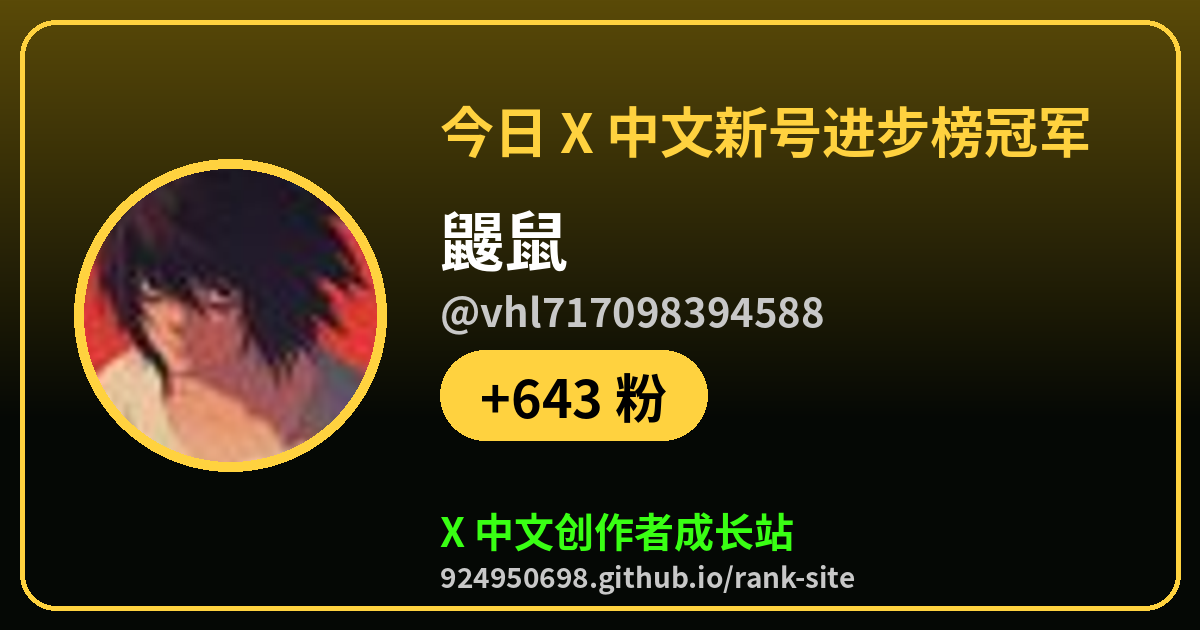
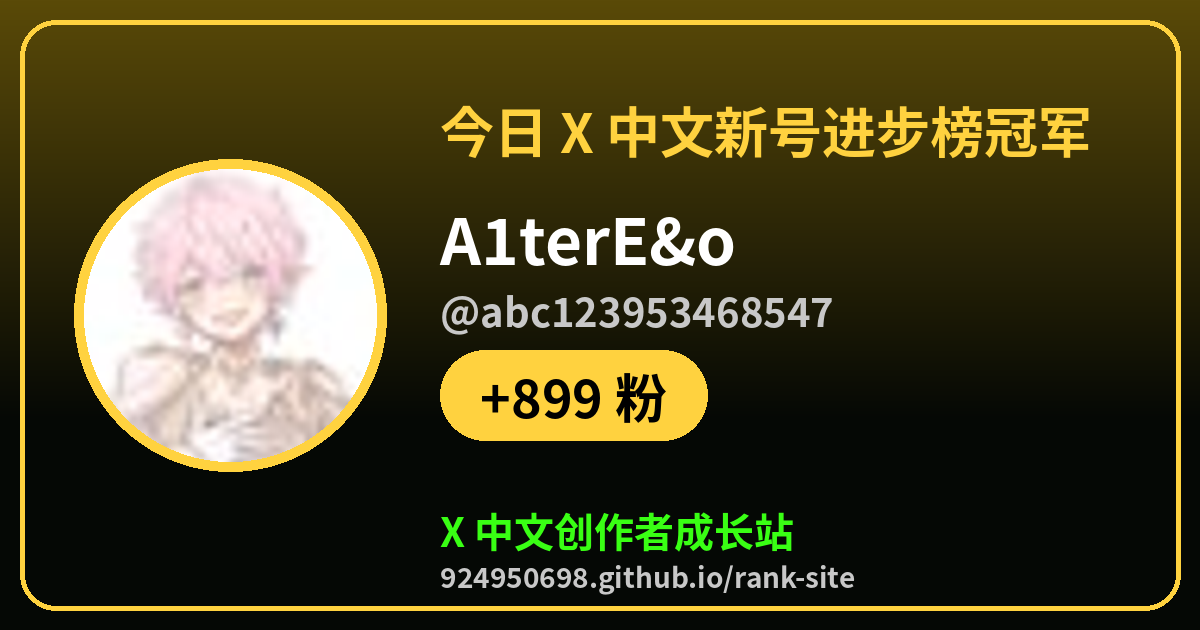
champ: 2026-10-17 16:27 CST

Changed region(s): [[0.0617, 0.2714, 0.3392, 0.754], [0.37, 0.3317, 0.7092, 0.5429], [0.4317, 0.6032, 0.4933, 0.6635]]

diff --git a/champ/rising.html b/champ/rising.html
@@ -1,7 +1,7 @@
 <!doctype html><html lang="zh-CN"><head><meta charset="utf-8"><meta name="viewport" content="width=device-width,initial-scale=1">
-<title>今日 X 中文新号进步榜冠军：鼹鼠（@vhl717098394588）</title><meta name="description" content="+643 粉，来看看今天谁在爆，你排第几">
-<meta property="og:type" content="website"><meta property="og:url" content="https://924950698.github.io/rank-site/champ/rising.html"><meta property="og:title" content="今日 X 中文新号进步榜冠军：鼹鼠（@vhl717098394588）"><meta property="og:description" content="+643 粉，来看看今天谁在爆，你排第几">
-<meta property="og:image" content="https://924950698.github.io/rank-site/champ/rising.png?v=20261017T0706"><meta name="twitter:card" content="summary_large_image"><meta name="twitter:site" content="@tigerr3aue">
-<meta name="twitter:title" content="今日 X 中文新号进步榜冠军：鼹鼠（@vhl717098394588）"><meta name="twitter:description" content="+643 粉，来看看今天谁在爆，你排第几"><meta name="twitter:image" content="https://924950698.github.io/rank-site/champ/rising.png?v=20261017T0706">
-<meta http-equiv="refresh" content="0;url=https://924950698.github.io/rank-site/?champ=vhl717098394588&amp;board=rising#rank"><script>location.replace("https://924950698.github.io/rank-site/?champ=vhl717098394588&board=rising#rank")</script></head>
-<body style="background:#000;color:#fff;font-family:sans-serif;text-align:center;padding:40px"><a href="https://924950698.github.io/rank-site/?champ=vhl717098394588&amp;board=rising#rank" style="color:#39ff14">去 X 中文创作者成长站看冠军卡片</a></body></html>
+<title>今日 X 中文新号进步榜冠军：A1terE&amp;o（@abc123953468547）</title><meta name="description" content="+899 粉，来看看今天谁在爆，你排第几">
+<meta property="og:type" content="website"><meta property="og:url" content="https://924950698.github.io/rank-site/champ/rising.html"><meta property="og:title" content="今日 X 中文新号进步榜冠军：A1terE&amp;o（@abc123953468547）"><meta property="og:description" content="+899 粉，来看看今天谁在爆，你排第几">
+<meta property="og:image" content="https://924950698.github.io/rank-site/champ/rising.png?v=20261017T0803"><meta name="twitter:card" content="summary_large_image"><meta name="twitter:site" content="@tigerr3aue">
+<meta name="twitter:title" content="今日 X 中文新号进步榜冠军：A1terE&amp;o（@abc123953468547）"><meta name="twitter:description" content="+899 粉，来看看今天谁在爆，你排第几"><meta name="twitter:image" content="https://924950698.github.io/rank-site/champ/rising.png?v=20261017T0803">
+<meta http-equiv="refresh" content="0;url=https://924950698.github.io/rank-site/?champ=abc123953468547&amp;board=rising#rank"><script>location.replace("https://924950698.github.io/rank-site/?champ=abc123953468547&board=rising#rank")</script></head>
+<body style="background:#000;color:#fff;font-family:sans-serif;text-align:center;padding:40px"><a href="https://924950698.github.io/rank-site/?champ=abc123953468547&amp;board=rising#rank" style="color:#39ff14">去 X 中文创作者成长站看冠军卡片</a></body></html>

diff --git a/champ/growth.html b/champ/growth.html
@@ -1,7 +1,7 @@
 <!doctype html><html lang="zh-CN"><head><meta charset="utf-8"><meta name="viewport" content="width=device-width,initial-scale=1">
-<title>今日 X 中文涨粉榜冠军：鼹鼠（@vhl717098394588）</title><meta name="description" content="+643 粉，来看看今天谁在爆，你排第几">
-<meta property="og:type" content="website"><meta property="og:url" content="https://924950698.github.io/rank-site/champ/growth.html"><meta property="og:title" content="今日 X 中文涨粉榜冠军：鼹鼠（@vhl717098394588）"><meta property="og:description" content="+643 粉，来看看今天谁在爆，你排第几">
-<meta property="og:image" content="https://924950698.github.io/rank-site/champ/growth.png?v=20261017T0706"><meta name="twitter:card" content="summary_large_image"><meta name="twitter:site" content="@tigerr3aue">
-<meta name="twitter:title" content="今日 X 中文涨粉榜冠军：鼹鼠（@vhl717098394588）"><meta name="twitter:description" content="+643 粉，来看看今天谁在爆，你排第几"><meta name="twitter:image" content="https://924950698.github.io/rank-site/champ/growth.png?v=20261017T0706">
-<meta http-equiv="refresh" content="0;url=https://924950698.github.io/rank-site/?champ=vhl717098394588&amp;board=growth#rank"><script>location.replace("https://924950698.github.io/rank-site/?champ=vhl717098394588&board=growth#rank")</script></head>
-<body style="background:#000;color:#fff;font-family:sans-serif;text-align:center;padding:40px"><a href="https://924950698.github.io/rank-site/?champ=vhl717098394588&amp;board=growth#rank" style="color:#39ff14">去 X 中文创作者成长站看冠军卡片</a></body></html>
+<title>今日 X 中文涨粉榜冠军：A1terE&amp;o（@abc123953468547）</title><meta name="description" content="+899 粉，来看看今天谁在爆，你排第几">
+<meta property="og:type" content="website"><meta property="og:url" content="https://924950698.github.io/rank-site/champ/growth.html"><meta property="og:title" content="今日 X 中文涨粉榜冠军：A1terE&amp;o（@abc123953468547）"><meta property="og:description" content="+899 粉，来看看今天谁在爆，你排第几">
+<meta property="og:image" content="https://924950698.github.io/rank-site/champ/growth.png?v=20261017T0803"><meta name="twitter:card" content="summary_large_image"><meta name="twitter:site" content="@tigerr3aue">
+<meta name="twitter:title" content="今日 X 中文涨粉榜冠军：A1terE&amp;o（@abc123953468547）"><meta name="twitter:description" content="+899 粉，来看看今天谁在爆，你排第几"><meta name="twitter:image" content="https://924950698.github.io/rank-site/champ/growth.png?v=20261017T0803">
+<meta http-equiv="refresh" content="0;url=https://924950698.github.io/rank-site/?champ=abc123953468547&amp;board=growth#rank"><script>location.replace("https://924950698.github.io/rank-site/?champ=abc123953468547&board=growth#rank")</script></head>
+<body style="background:#000;color:#fff;font-family:sans-serif;text-align:center;padding:40px"><a href="https://924950698.github.io/rank-site/?champ=abc123953468547&amp;board=growth#rank" style="color:#39ff14">去 X 中文创作者成长站看冠军卡片</a></body></html>

diff --git a/champ/exposure.html b/champ/exposure.html
@@ -1,7 +1,7 @@
 <!doctype html><html lang="zh-CN"><head><meta charset="utf-8"><meta name="viewport" content="width=device-width,initial-scale=1">
 <title>今日 X 中文曝光榜冠军：可乐33（@cokeoysters）</title><meta name="description" content="4.7万 曝光，来看看今天谁在爆，你排第几">
 <meta property="og:type" content="website"><meta property="og:url" content="https://924950698.github.io/rank-site/champ/exposure.html"><meta property="og:title" content="今日 X 中文曝光榜冠军：可乐33（@cokeoysters）"><meta property="og:description" content="4.7万 曝光，来看看今天谁在爆，你排第几">
-<meta property="og:image" content="https://924950698.github.io/rank-site/champ/exposure.png?v=20261017T0706"><meta name="twitter:card" content="summary_large_image"><meta name="twitter:site" content="@tigerr3aue">
-<meta name="twitter:title" content="今日 X 中文曝光榜冠军：可乐33（@cokeoysters）"><meta name="twitter:description" content="4.7万 曝光，来看看今天谁在爆，你排第几"><meta name="twitter:image" content="https://924950698.github.io/rank-site/champ/exposure.png?v=20261017T0706">
+<meta property="og:image" content="https://924950698.github.io/rank-site/champ/exposure.png?v=20261017T0803"><meta name="twitter:card" content="summary_large_image"><meta name="twitter:site" content="@tigerr3aue">
+<meta name="twitter:title" content="今日 X 中文曝光榜冠军：可乐33（@cokeoysters）"><meta name="twitter:description" content="4.7万 曝光，来看看今天谁在爆，你排第几"><meta name="twitter:image" content="https://924950698.github.io/rank-site/champ/exposure.png?v=20261017T0803">
 <meta http-equiv="refresh" content="0;url=https://924950698.github.io/rank-site/?champ=cokeoysters&amp;board=exposure#rank"><script>location.replace("https://924950698.github.io/rank-site/?champ=cokeoysters&board=exposure#rank")</script></head>
 <body style="background:#000;color:#fff;font-family:sans-serif;text-align:center;padding:40px"><a href="https://924950698.github.io/rank-site/?champ=cokeoysters&amp;board=exposure#rank" style="color:#39ff14">去 X 中文创作者成长站看冠军卡片</a></body></html>

diff --git a/champ/comments.html b/champ/comments.html
@@ -1,7 +1,7 @@
 <!doctype html><html lang="zh-CN"><head><meta charset="utf-8"><meta name="viewport" content="width=device-width,initial-scale=1">
 <title>今日 X 中文评论榜冠军：水Lane💧（@VentLane）</title><meta name="description" content="168 评论，来看看今天谁在爆，你排第几">
 <meta property="og:type" content="website"><meta property="og:url" content="https://924950698.github.io/rank-site/champ/comments.html"><meta property="og:title" content="今日 X 中文评论榜冠军：水Lane💧（@VentLane）"><meta property="og:description" content="168 评论，来看看今天谁在爆，你排第几">
-<meta property="og:image" content="https://924950698.github.io/rank-site/champ/comments.png?v=20261017T0706"><meta name="twitter:card" content="summary_large_image"><meta name="twitter:site" content="@tigerr3aue">
-<meta name="twitter:title" content="今日 X 中文评论榜冠军：水Lane💧（@VentLane）"><meta name="twitter:description" content="168 评论，来看看今天谁在爆，你排第几"><meta name="twitter:image" content="https://924950698.github.io/rank-site/champ/comments.png?v=20261017T0706">
+<meta property="og:image" content="https://924950698.github.io/rank-site/champ/comments.png?v=20261017T0803"><meta name="twitter:card" content="summary_large_image"><meta name="twitter:site" content="@tigerr3aue">
+<meta name="twitter:title" content="今日 X 中文评论榜冠军：水Lane💧（@VentLane）"><meta name="twitter:description" content="168 评论，来看看今天谁在爆，你排第几"><meta name="twitter:image" content="https://924950698.github.io/rank-site/champ/comments.png?v=20261017T0803">
 <meta http-equiv="refresh" content="0;url=https://924950698.github.io/rank-site/?champ=VentLane&amp;board=comments#rank"><script>location.replace("https://924950698.github.io/rank-site/?champ=VentLane&board=comments#rank")</script></head>
 <body style="background:#000;color:#fff;font-family:sans-serif;text-align:center;padding:40px"><a href="https://924950698.github.io/rank-site/?champ=VentLane&amp;board=comments#rank" style="color:#39ff14">去 X 中文创作者成长站看冠军卡片</a></body></html>
